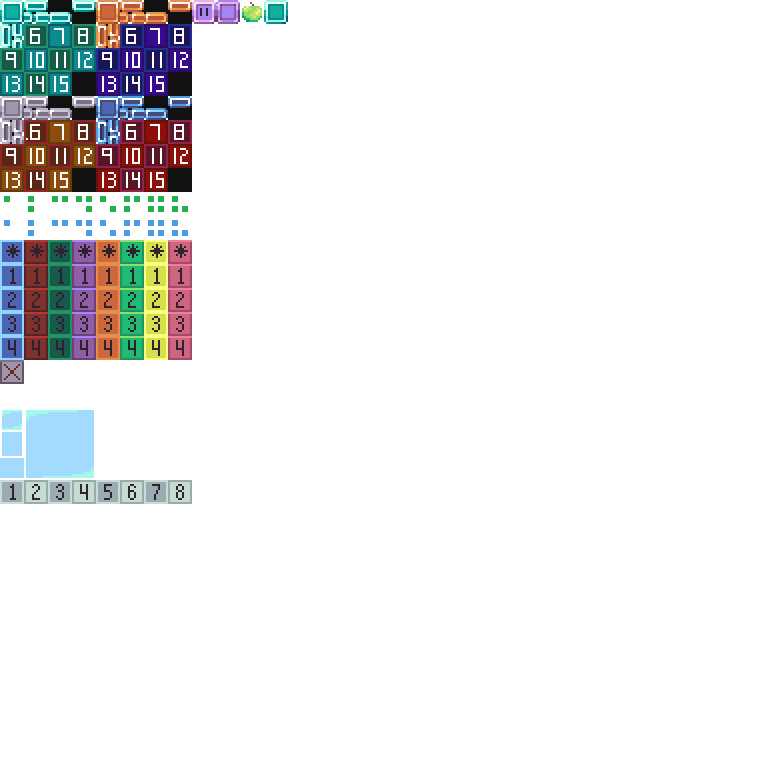
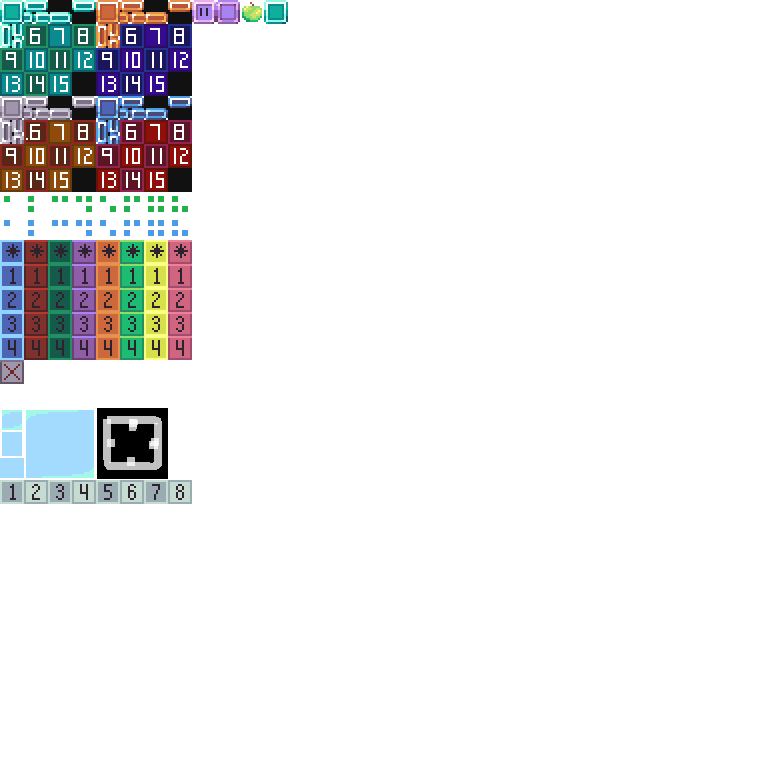
transitioned to DIRS enum in preparation for wrap wall collision.

Changed region(s): [[0.125, 0.5312, 0.2188, 0.625]]

diff --git a/games/Phaser-Snake-Game/public/js/SnakeHole.js b/games/Phaser-Snake-Game/public/js/SnakeHole.js
@@ -161,15 +161,15 @@ var tileset2;
 const FADE_OUT_TILES = [104];
 
 //  Direction consts
-export const LEFT = 3;
-export const RIGHT = 4;
-export const UP = 1;
-export const DOWN = 2;
+//export const LEFT = 3;
+//export const RIGHT = 4;
+//export const UP = 1;
+//export const DOWN = 2;
 const START_SPRINT = 5;
 const STOP_SPRINT = 6;
-export const STOP = 0;
+//export const STOP = 0;
 
-const DIRS = Object.freeze({ 
+export const DIRS = Object.freeze({ 
     UP: 1, 
     DOWN: 2, 
     LEFT: 3, 
@@ -898,7 +898,7 @@ class GameScene extends Phaser.Scene {
         spawnTile.index = -1; // Set to empty tile
 
         this.snake = new Snake(this, this.startCoords.x, this.startCoords.y);
-        this.snake.direction = STOP;
+        this.snake.direction = DIRS.STOP;
         
 
         this.tiledProperties = {};
@@ -1098,9 +1098,9 @@ class GameScene extends Phaser.Scene {
             wallShimmerTop.play('wrapBlock02');
             this.dreamWalls.push(wallShimmerTop);
                 
-            //var wallShimmerBottom = this.add.sprite(GRID * index, GRID * END_Y - GRID).setDepth(-10).setOrigin(0,0);
-            //wallShimmerBottom.play('wrapBlock07');
-            //this.dreamWalls.push(wallShimmerBottom);
+            var wallShimmerBottom = this.add.sprite(GRID * index, GRID * END_Y - 1).setDepth(0).setOrigin(0,0);
+            wallShimmerBottom.play('wrapBlock07');
+            this.dreamWalls.push(wallShimmerBottom);
         
         }
         
@@ -5652,14 +5652,14 @@ class InputScene extends Phaser.Scene {
 
 
     moveUp(gameScene, key) {
-        if (gameScene.snake.direction === LEFT  || gameScene.snake.direction  === RIGHT || // Prevents backtracking to death
-            gameScene.snake.direction  === STOP || (gameScene.snake.body.length < 2 || gameScene.stepMode)) { 
+        if (gameScene.snake.direction === DIRS.LEFT  || gameScene.snake.direction  === DIRS.RIGHT || // Prevents backtracking to death
+            gameScene.snake.direction  === DIRS.STOP || (gameScene.snake.body.length < 2 || gameScene.stepMode)) { 
             
             this.setPLAY(gameScene);
             
                 // At anytime you can update the direction of the snake.
             gameScene.snake.head.setTexture('snakeDefault', 6);
-            gameScene.snake.direction = UP;
+            gameScene.snake.direction = DIRS.UP;
             
             this.inputSet.push([gameScene.snake.direction, gameScene.time.now]);
             this.turns += 1;
@@ -5685,13 +5685,13 @@ class InputScene extends Phaser.Scene {
     }
 
     moveDown(gameScene, key) {
-        if (gameScene.snake.direction  === LEFT  || gameScene.snake.direction  === RIGHT || 
-            gameScene.snake.direction  === STOP || (gameScene.snake.body.length < 2 || gameScene.stepMode)) { 
+        if (gameScene.snake.direction  === DIRS.LEFT  || gameScene.snake.direction  === DIRS.RIGHT || 
+            gameScene.snake.direction  === DIRS.STOP || (gameScene.snake.body.length < 2 || gameScene.stepMode)) { 
            
 
                this.setPLAY(gameScene);
                gameScene.snake.head.setTexture('snakeDefault', 7);
-           gameScene.snake.direction = DOWN;
+           gameScene.snake.direction = DIRS.DOWN;
 
            this.turns += 1;
            this.inputSet.push([gameScene.snake.direction, gameScene.time.now]);
@@ -5716,13 +5716,13 @@ class InputScene extends Phaser.Scene {
     }
 
     moveLeft(gameScene, key) {
-        if (gameScene.snake.direction  === UP   || gameScene.snake.direction  === DOWN || 
-            gameScene.snake.direction  === STOP || (gameScene.snake.body.length < 2 || gameScene.stepMode)) {
+        if (gameScene.snake.direction  === DIRS.UP   || gameScene.snake.direction  === DIRS.DOWN || 
+            gameScene.snake.direction  === DIRS.STOP || (gameScene.snake.body.length < 2 || gameScene.stepMode)) {
             
                 this.setPLAY(gameScene);
 
             gameScene.snake.head.setTexture('snakeDefault', 4);
-            gameScene.snake.direction = LEFT;
+            gameScene.snake.direction = DIRS.LEFT;
 
             this.turns += 1;
             this.inputSet.push([gameScene.snake.direction, gameScene.time.now]);
@@ -5747,12 +5747,12 @@ class InputScene extends Phaser.Scene {
     }
 
     moveRight(gameScene, key) {
-        if (gameScene.snake.direction  === UP   || gameScene.snake.direction  === DOWN || 
-            gameScene.snake.direction  === STOP || (gameScene.snake.body.length < 2 || gameScene.stepMode)) { 
+        if (gameScene.snake.direction  === DIRS.UP   || gameScene.snake.direction  === DIRS.DOWN || 
+            gameScene.snake.direction  === DIRS.STOP || (gameScene.snake.body.length < 2 || gameScene.stepMode)) { 
             
                 this.setPLAY(gameScene);
                 gameScene.snake.head.setTexture('snakeDefault', 5);
-            gameScene.snake.direction = RIGHT;
+            gameScene.snake.direction = DIRS.RIGHT;
 
             this.turns += 1;
             this.inputSet.push([gameScene.snake.direction, gameScene.time.now]);

diff --git a/games/Phaser-Snake-Game/public/js/classes/Snake.js b/games/Phaser-Snake-Game/public/js/classes/Snake.js
@@ -1,5 +1,5 @@
 import { GRID,  SCREEN_WIDTH, SCREEN_HEIGHT, GState,
-    LEFT, RIGHT, UP, DOWN, STOP, DEBUG, commaInt,
+    DIRS, DEBUG, commaInt,
     LENGTH_GOAL, SPEED_WALK, SPEED_SPRINT, COMBO_ADD_FLOOR
 } from "../SnakeHole.js";
 import { Food } from "./Food.js";
@@ -101,39 +101,49 @@ var Snake = new Phaser.Class({
         this.snakeLightW.x = x - SCREEN_WIDTH
         this.snakeLightW.y = y
 
+        // wrapping tiles
+        scene.map.setLayer(scene.wallVarient);
+        
+        
+
 
         // Look ahead for bonks
+        
 
         var xN = this.head.x;
         var yN = this.head.y;
 
         
-    if (this.direction === LEFT)
+    if (this.direction === DIRS.LEFT)
         {
             xN = Phaser.Math.Wrap(this.head.x  - GRID, 0, SCREEN_WIDTH);
             ourPersistScene.bgCoords.x -= .25;
         }
-        else if (this.direction === RIGHT)
+        else if (this.direction === DIRS.RIGHT)
         {
             xN = Phaser.Math.Wrap(this.head.x + GRID, 0, SCREEN_WIDTH);
             ourPersistScene.bgCoords.x += .25;
         }
-        else if (this.direction === UP)
+        else if (this.direction === DIRS.UP)
         {
             yN = Phaser.Math.Wrap(this.head.y - GRID, GRID * 2, SCREEN_HEIGHT - GRID);
             ourPersistScene.bgCoords.y -= .25;
         }
-        else if (this.direction === DOWN)
+        else if (this.direction === DIRS.DOWN)
         {
             yN = Phaser.Math.Wrap(this.head.y + GRID, GRID * 2, SCREEN_HEIGHT - GRID * 1 );
             ourPersistScene.bgCoords.y += .25;
         }
+
         
         // #region Bonk Walls
         scene.map.setLayer(scene.wallVarient);
-        if (scene.map.getTileAtWorldXY( xN, yN )) {
+        var nextTile = scene.map.getTileAtWorldXY( xN, yN);
+        debugger
+        
+        if (nextTile != null && nextTile.properties.noCollision === false) {
             
-            this.direction = STOP;
+            this.direction = DIRS.STOP;
             if (scene.bonkable) {
                 this.bonk(scene);  
             }
@@ -145,7 +155,7 @@ var Snake = new Phaser.Class({
             if (scene.map.getTileAtWorldXY( xN, yN )) {
             
         
-                this.direction = STOP;
+                this.direction = DIRS.STOP;
                 if (scene.bonkable) {
                     this.bonk(scene);   
                 }
@@ -198,7 +208,7 @@ var Snake = new Phaser.Class({
         }
     
         // Actually Move the Snake Head
-        if (scene.gState != GState.BONK && this.direction != STOP) {
+        if (scene.gState != GState.BONK && this.direction != DIRS.STOP) {
                 Phaser.Actions.ShiftPosition(this.body, xN, yN, this.tail);
         }
         
@@ -327,7 +337,7 @@ var Snake = new Phaser.Class({
         const ourPersistScene = scene.scene.get('PersistScene');
         
         scene.gState = GState.BONK;
-        this.direction = STOP;
+        this.direction = DIRS.STOP;
         console.log(scene.gState, "BONK" , this.direction);
 
         scene.screenShake();
